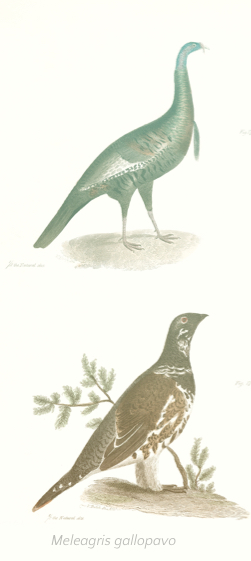
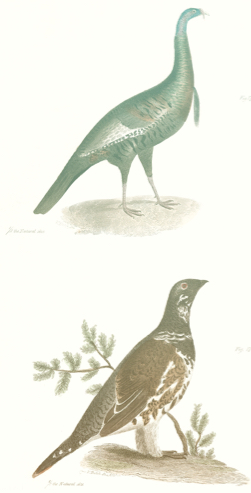
Added images for the rest of the what are we doing page

Changed region(s): [[0.1116, 0.5477, 1.0, 1.0], [0.1116, 0.0, 0.8088, 0.4868], [0.2789, 0.4564, 0.3347, 0.4868]]

diff --git a/src/pages/what-are-we-doing.js b/src/pages/what-are-we-doing.js
@@ -137,13 +137,13 @@ const WhatAreWeDoingPage = () => (
         </div>
       </div>
       <div className="twoColumnsRightImage">
-        <Image filename="what_do/what_do_aquilegia_formosa2x.jpg" alt="Aquilegia formosa" showCaption="true" />
+        <Image filename="what_do/what_do_meleagris_gallopavo2x.jpg" alt="Meleagris gallopavo" showCaption="true" />
       </div>
     </Panel>
 
     <Panel justification="center">
       <div className="twoColumnsLeftImage">
-        <Image filename="what_do/what_do_calypte_anna2x.jpg" alt="Calypte anna" showCaption="true" />
+        <Image filename="what_do/what_do_castor_canadensis.jpg" alt="Castor canadensis" showCaption="true" />
       </div>
       <div className="twoColumnsRightText">
         <Headline
@@ -185,7 +185,7 @@ const WhatAreWeDoingPage = () => (
               title="Gathering resources, mapping the bioregion and building our network of collaborators"
               subtitle="WINTER 2020"
             />
-            <Image filename="what_do/what_do_calypso_bulbosa2x.jpg" alt="Calypso bulbosa" showCaption="true" />
+            <Image filename="what_do/what_do_adrea_alba.jpg" alt="Adrea alba" showCaption="true" />
           </div>
           <div className="twoColumnsTimelineRight">
             <div className="timelineItem">
@@ -305,7 +305,7 @@ const WhatAreWeDoingPage = () => (
               title="Grow the team, conduct research, develop technology and nurture our community, implement collective membership agreements"
               subtitle="SPRING 2020"
             />
-            <Image filename="what_do/what_do_calypso_bulbosa2x.jpg" alt="Calypso bulbosa" showCaption="true" />
+            <Image filename="what_do/what_do_falco_sparverius.jpg" alt="Falco sparverius" showCaption="true" />
           </div>
         </div>
 
@@ -318,7 +318,7 @@ const WhatAreWeDoingPage = () => (
               title="Implement the first iteration of our collective ownership, governance and resource sharing systems, grow the ecosystem"
               subtitle="SUMMER 2020"
             />
-            <Image filename="what_do/what_do_calypso_bulbosa2x.jpg" alt="Calypso bulbosa" showCaption="true" />
+            <Image filename="what_do/what_do_lontra_canadensis.jpg" alt="Lontra canadensis" showCaption="true" />
           </div>
           <div className="twoColumnsTimelineRight">
             <div className="timelineItem">
@@ -404,7 +404,7 @@ const WhatAreWeDoingPage = () => (
               title="Develop tools for bioregional meta-organizational collaboration via guilds and start looking for other bioregions to release our tools to"
               subtitle="FALL 2020"
             />
-            <Image filename="what_do/what_do_calypso_bulbosa2x.jpg" alt="Calypso bulbosa" showCaption="true" />
+            <Image filename="what_do/what_do_pelicanus_occidentalis.jpg" alt="Pelicanus occidentalis" showCaption="true" />
           </div>
         </div>
 
@@ -417,7 +417,7 @@ const WhatAreWeDoingPage = () => (
               title="Building tools that create commons, make tools that make it possible for anyone to create a collective, deepening community in the bay"
               subtitle="2021"
             />
-            <Image filename="what_do/what_do_calypso_bulbosa2x.jpg" alt="Calypso bulbosa" showCaption="true" />
+            <Image filename="what_do/what_do_pleurotus_ostreatus.jpg" alt="Pleurotus ostreatus" showCaption="true" />
           </div>
           <div className="twoColumnsTimelineRight">
             <div className="timelineItem">
@@ -502,7 +502,7 @@ const WhatAreWeDoingPage = () => (
               title="Find and secure land for collective stewardship and governance, nurture the commons we have created and release tools for local meta-communities"
               subtitle="2022"
             />
-            <Image filename="what_do/what_do_calypso_bulbosa2x.jpg" alt="Calypso bulbosa" showCaption="true" />
+            <Image filename="what_do/what_do_sciurus_griseus.jpg" alt="Sciurus griseus" showCaption="true" />
           </div>
         </div>
 
